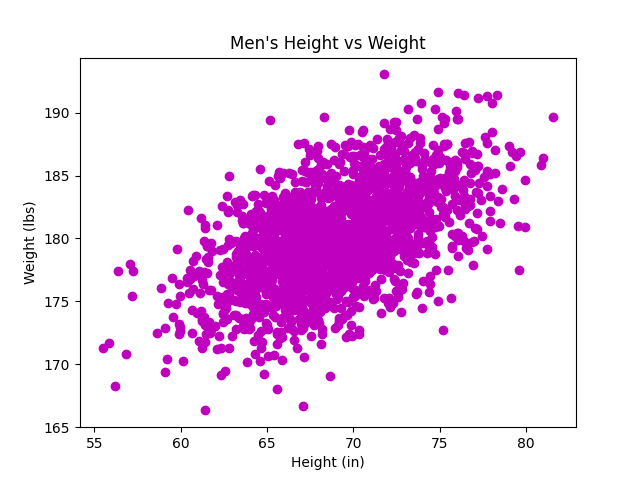
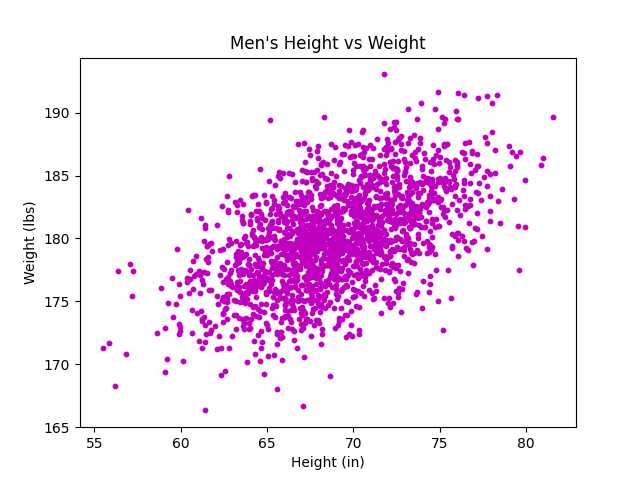
fix plot size

diff --git a/math/0x01-plotting/1-scatter.py b/math/0x01-plotting/1-scatter.py
@@ -9,7 +9,7 @@ np.random.seed(5)
 x, y = np.random.multivariate_normal(mean, cov, 2000).T
 y += 180
 
-plt.scatter(x, y, color='m')
+plt.scatter(x, y, color='m', s=10)
 plt.xlabel('Height (in)')
 plt.ylabel('Weight (lbs)')
 plt.title("Men's Height vs Weight")
